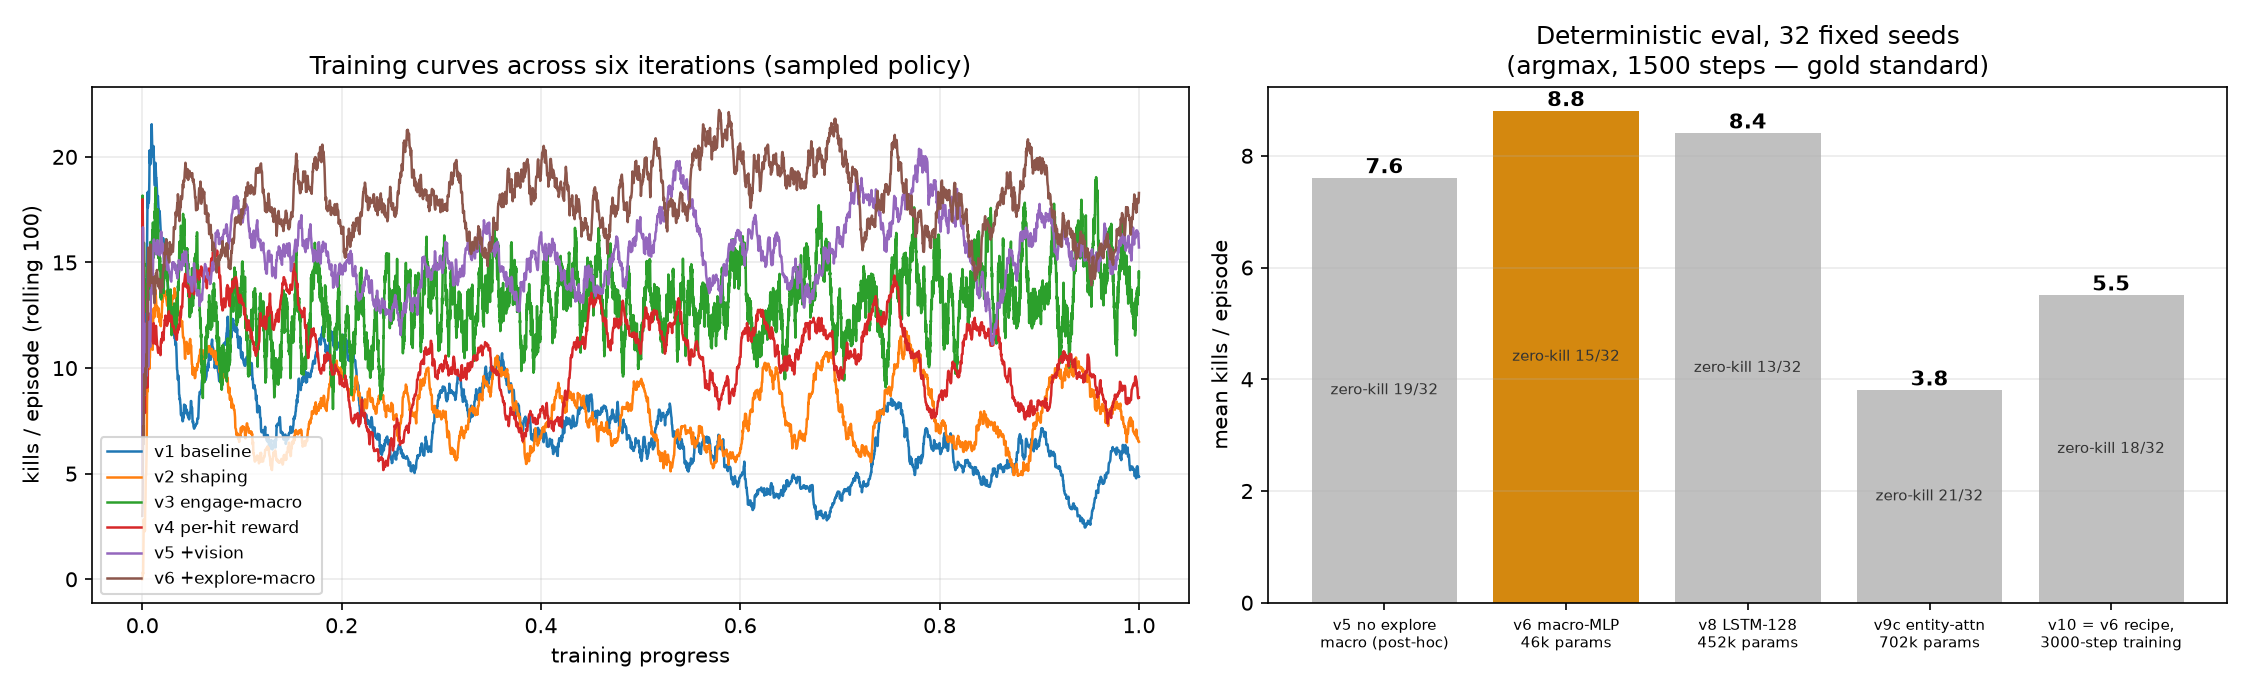
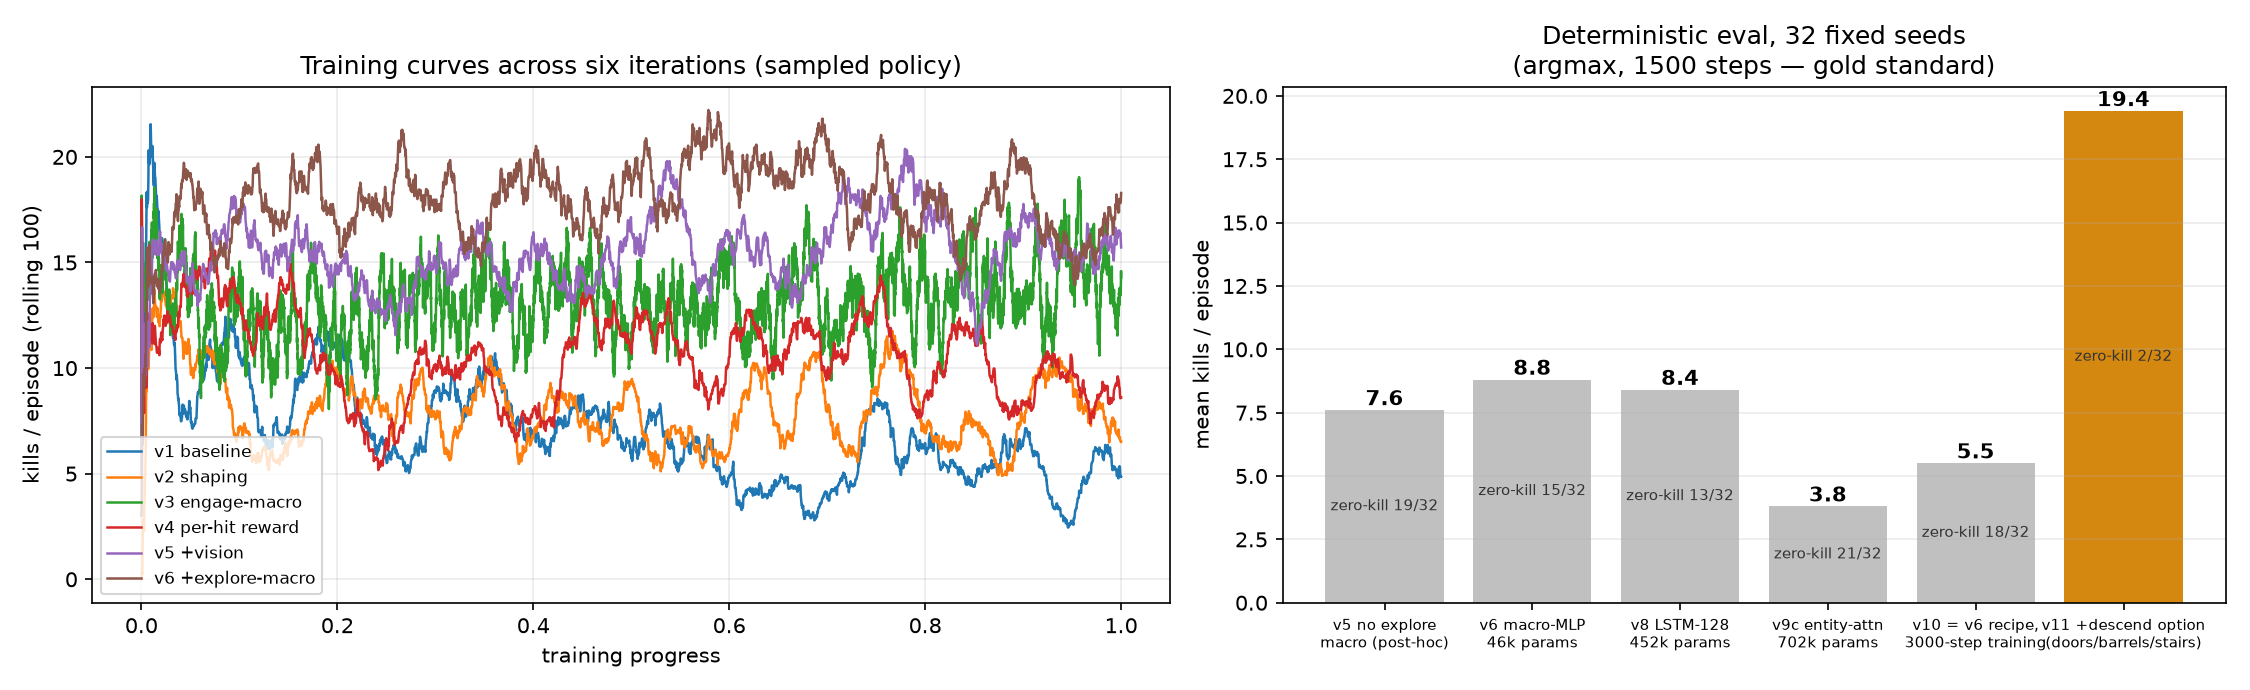
Docs: v11 chapter — lesson 10 (capability lives in the action space)
- README: v11 champion row (19.4 / 14.5 / 70 / 2 zero / 27 reach-L2),
  third unexpected finding (sensor-level door-blindness + architecture
  invariance 15/15), lesson 10, roadmap updated (deadlock cracked,
  descend done, survival chapter in flight), figure crowns v11
- DESIGN: overview row, 教训十 (door-blind oracle, 10/10 hunter-failure
  cures, emergent door-key reuse, the perception/action/architecture
  trilogy), 无头扫雷记 (bat missile anims, Butcher SFX table with the
  wrong-null postmortem, the silent-hang fuse, ops addenda)
- patches count in README: four asset fixes -> six headless bugs

diff --git a/train/plot_figures.py b/train/plot_figures.py
@@ -43,7 +43,9 @@ BARS = [
     ("ppo-l1-v8-lstm", "v8 LSTM-128\n452k params"),
     ("ppo-l1-v9c-attn", "v9c entity-attn\n702k params"),
     ("ppo-l1-v10-longep", "v10 = v6 recipe,\n3000-step training"),
+    ("ppo-l1-v11-descend", "v11 +descend option\n(doors/barrels/stairs)"),
 ]
+CHAMPION = "ppo-l1-v11-descend"
 
 
 def rolling(xs: list[float], w: int) -> list[float]:
@@ -109,7 +111,7 @@ def main() -> None:
     labels = [label for _, label in BARS]
     means = [board[name]["mean"] for name, _ in BARS]
     zeros = [board[name]["zero"] for name, _ in BARS]
-    colors = ["#d4880f" if name == "ppo-l1-v6-explore" else "#c0c0c0" for name, _ in BARS]
+    colors = ["#d4880f" if name == CHAMPION else "#c0c0c0" for name, _ in BARS]
     bars = ax2.bar(labels, means, color=colors)
     for bar, mean, zero in zip(bars, means, zeros):
         ax2.annotate(

diff --git a/README.md b/README.md
@@ -4,9 +4,10 @@
 
 **A fast, deterministic Diablo I reinforcement-learning environment** built on
 [DevilutionX](https://github.com/diasurgical/devilutionX), plus the training
-pipeline that took a PPO agent from *hiding in a corner* to *autonomously
-hunting Fallen packs on dungeon level 1* — ten documented runs, one diagnosed
-failure mode eliminated (or one hypothesis falsified) per run.
+pipeline that took a PPO agent from *hiding in a corner* to *opening doors,
+smashing barrels and fighting its way down to dungeon level 4* — eleven
+documented runs, one diagnosed failure mode eliminated (or one hypothesis
+falsified) per run.
 
 - 🚀 **~13,000× realtime**: full game logic, headless — 254k engine ticks/s raw,
   ~7,500 `env.step()`/s with full observations (M-series MacBook, measured)
@@ -17,8 +18,9 @@ failure mode eliminated (or one hypothesis falsified) per run.
 - 🧩 **Gymnasium API**: structured observations (entity features + 11×11 local
   map), macro-actions (engage / explore)
 - 📊 **Zero-dependency live dashboard** for training runs
-- 🩹 Ships **upstream fixes** for four DevilutionX headless-mode asset bugs
-  (`patches/`)
+- 🩹 Ships **upstream fixes** for six DevilutionX headless-mode bugs — asset
+  fallbacks, monster-missile anims (a bat swoop was the first crash), the
+  unloaded SFX table (the Butcher's greeting was the second) — in `patches/`
 
 ![learning curves](docs/assets/learning-curves.png)
 
@@ -32,26 +34,28 @@ iterations that built the champion. Right: the gold standard — deterministic
 | model | params | mean kills | median | max | zero-kill | reached L2 |
 |---|---|---|---|---|---|---|
 | v5 vision, no explore macro¹ | 45,771 | 7.6 | 0 | 45 | 19/32 | 0/32 |
-| **v6 macro-MLP (champion)** | 45,836 | **8.8** | **3.5** | 36 | 15/32 | 0/32 |
+| v6 macro-MLP | 45,836 | 8.8 | 3.5 | 36 | 15/32 | 0/32 |
 | v8 LSTM-128 | 451,596 | 8.4 | 3.0 | 43 | 13/32 | 0/32 |
 | v9c entity-attention | 701,980 | 3.8 | 0 | 38 | 21/32 | 0/32 |
 | v10 = v6 recipe, 3000-step episodes | 45,836 | 5.5 | 0 | 49 | 18/32 | 0/32 |
+| **v11 = v6 + descend option (champion)** | 45,901 | **19.4** | **14.5** | **70** | **2/32** | **27/32** |
 
 ¹ *Evaluated post-hoc on the current env (same observation; it never selects
 the explore macro). Protocol: seeds 9000-9031, 1500 steps, argmax, idle
 machine, pinned engine — [train/leaderboard.md](train/leaderboard.md).*
 
-Honesty notes: each row is a **single training run** (training was unseeded;
-`--seed` exists now), and a 32-seed mean has an SEM of ≈2 kills — so the
-v5/v6/v8 means are statistically indistinguishable and ordering claims below
-rest on the distribution shape (median, zero-kill), not the means. Leaderboard
-checkpoints are not distributed yet (a tagged release is planned); rows come
-from the author's runs and are deterministically re-evaluable given the
-checkpoint. And the least flattering number in the table: despite a +8.0
-reward per level descended and stairs-direction features in the observation,
-**no agent of any generation has ever taken the stairs to level 2**.
+Honesty notes: each row is a **single training run** (v1-v10 unseeded; v11
+onward uses `--seed`), and a 32-seed mean has an SEM of ≈2 kills — so the
+v5/v6/v8 means are statistically indistinguishable and ordering claims rest
+on the distribution shape (median, zero-kill), not the means. The v11 jump,
+by contrast, moves every column at once and is far outside that noise band.
+Leaderboard checkpoints are not distributed yet (a tagged release is
+planned); rows come from the author's runs and are deterministically
+re-evaluable given the checkpoint. Current least flattering number: **17/32
+v11 episodes end in death** on the deeper floors — a naked level-2 warrior's
+economics (the v12 potion chapter exists because of this column).
 
-Two findings we did not expect:
+Three findings we did not expect:
 
 1. **At this scale, task design beats architecture** (directional evidence,
    one run per architecture). With a 3M-step budget, a 46k-parameter MLP
@@ -65,9 +69,22 @@ Two findings we did not expect:
    evaluation horizon to 3,000 steps changes *nothing*: per-seed kill counts
    are bit-identical at both horizons for both v6 and v10, all 32 seeds. When
    the spawn pocket has no reachable prey, the agent never recovers — a
-   planning/exploration failure (**the** open problem), not a time budget one.
+   planning/exploration failure, not a time budget one.
+3. **Capability lives in the action space, not the parameter count.** The
+   dead zeros turned out to be a *sensor* problem: closed doors are
+   indistinguishable from walls in the walkability channel, so part of every
+   level is invisible-by-construction. A static "sealed spawn" analysis
+   predicts zero-kill episodes for the MLP, the LSTM and the attention model
+   with zero false positives (15/15 cells) — information destroyed at the
+   sensor is unrecoverable by any downstream architecture. v11 added **one
+   action** (a descend option that plans through doors/barrels with a
+   full-map BFS and operates them en route), left observation, rewards and
+   architecture untouched, and doubled the gold standard — where a 15×
+   parameter increase had previously *lost* points. Emergent bonus: on the
+   deepest sealed seed the policy uses the descend macro as a *door-opening
+   key* and farms the unsealed rooms without ever taking the stairs.
 
-### Nine lessons from ten runs (short version)
+### Ten lessons from eleven runs (short version)
 
 1. Don't tax the intermediate costs of the behaviour you want, and don't leave
    zero-cost sanctuaries in the reward landscape (v1's wall-hugger).
@@ -92,6 +109,10 @@ Two findings we did not expect:
    LSTM matched but didn't beat the macro-MLP; attention never trained
    stably; doubling episode length changed nothing. The bottleneck is the
    spawn-pocket deadlock — task structure again.
+10. Perception bounds what can be known, the action set bounds what can be
+    done, architecture only tunes the efficiency in between (v11: one new
+    option, +120% mean kills; v9c: 15× parameters, −57%). Audit those three
+    layers in that order — the cheapest miracles live in the action space.
 
 ## Quickstart (macOS, Apple Silicon)
 
@@ -143,13 +164,16 @@ quirks are documented in [train/evaluate.py](train/evaluate.py).
 ## Roadmap
 
 - [x] v0 walking skeleton: embed, reset(seed), step, obs, actions
-- [x] Phase 1 — autonomous fighter on dungeon level 1 (champion: 8.8 mean
-  kills over 32 seeds; single-episode best 49 across generations)
-- [ ] **Crack the spawn-pocket deadlock** (15/32 episodes end at 0 kills when
-  no prey is reachable early — candidates: spawn curriculum, cross-room
-  frontier exploration, bigger LSTM budget)
-- [ ] Clear-rate objective & descend-to-L2 curriculum
-- [ ] The Butcher 🥩 (requires full game data)
+- [x] Phase 1 — autonomous fighter on dungeon level 1 (v6: 8.8 mean kills)
+- [x] **Crack the spawn-pocket deadlock** — root cause was door-blindness in
+  the walkability channel; the v11 descend option (door/barrel-aware BFS)
+  cut zero-kill episodes 15/32 → 2/32
+- [x] Descend to L2 — 27/32 episodes reach it now (deepest runs chain to L4)
+- [ ] Survive down there: belt-potion action (v12, training as this line is
+  written), potion pickup, then gear
+- [ ] Clear-rate objective
+- [ ] The Butcher 🥩 (his greeting already crashed our headless engine once —
+  see patches/0003; killing him is next)
 - [ ] Cross-class generalization (Rogue / Sorcerer — `hero_class` already exposed)
 - [ ] Multiplayer co-op deployment (carry your creator through the game)
 
@@ -157,11 +181,12 @@ quirks are documented in [train/evaluate.py](train/evaluate.py).
 
 基于 DevilutionX 的暗黑破坏神 I 强化学习环境:无头引擎裸跑 ~13,000 倍实时
 (含观测的 env.step 约 7,500 步/秒,~1,500 倍实时)、种子级确定性(评估跨进程
-位级可复现)、Gymnasium 接口、宏动作(交战/探索)、零依赖训练监控面板。十轮
-迭代把 PPO 从"面壁思过"练到"自主猎杀堕落者"(从早期 8 种子旧口径的 0,到现役
-冠军在 32 种子金标准下的 8.8),并留下九课教训:奖励税、塑形归因、动作时序、
-防磨刀、感知天花板、探索 option、宏退化吸引子、评估运气税、任务设计>架构——
-每一课都有数据实锤,完整踩坑史见 [docs/DESIGN.md](docs/DESIGN.md)。
+位级可复现)、Gymnasium 接口、宏动作(交战/探索/下楼)、零依赖训练监控面板。
+十一轮迭代把 PPO 从"面壁思过"练到"开门、砸桶、下楼、直抵第四层"(32 种子金
+标准均击杀 **19.4**,到达二层 27/32——此前五代全部为 0),并留下十课教训:
+奖励税、塑形归因、动作时序、防磨刀、感知天花板、探索 option、宏退化吸引子、
+评估运气税、任务设计>架构、**能力住在动作空间**——每一课都有数据实锤,完整
+踩坑史见 [docs/DESIGN.md](docs/DESIGN.md)。
 
 ## Legal
 